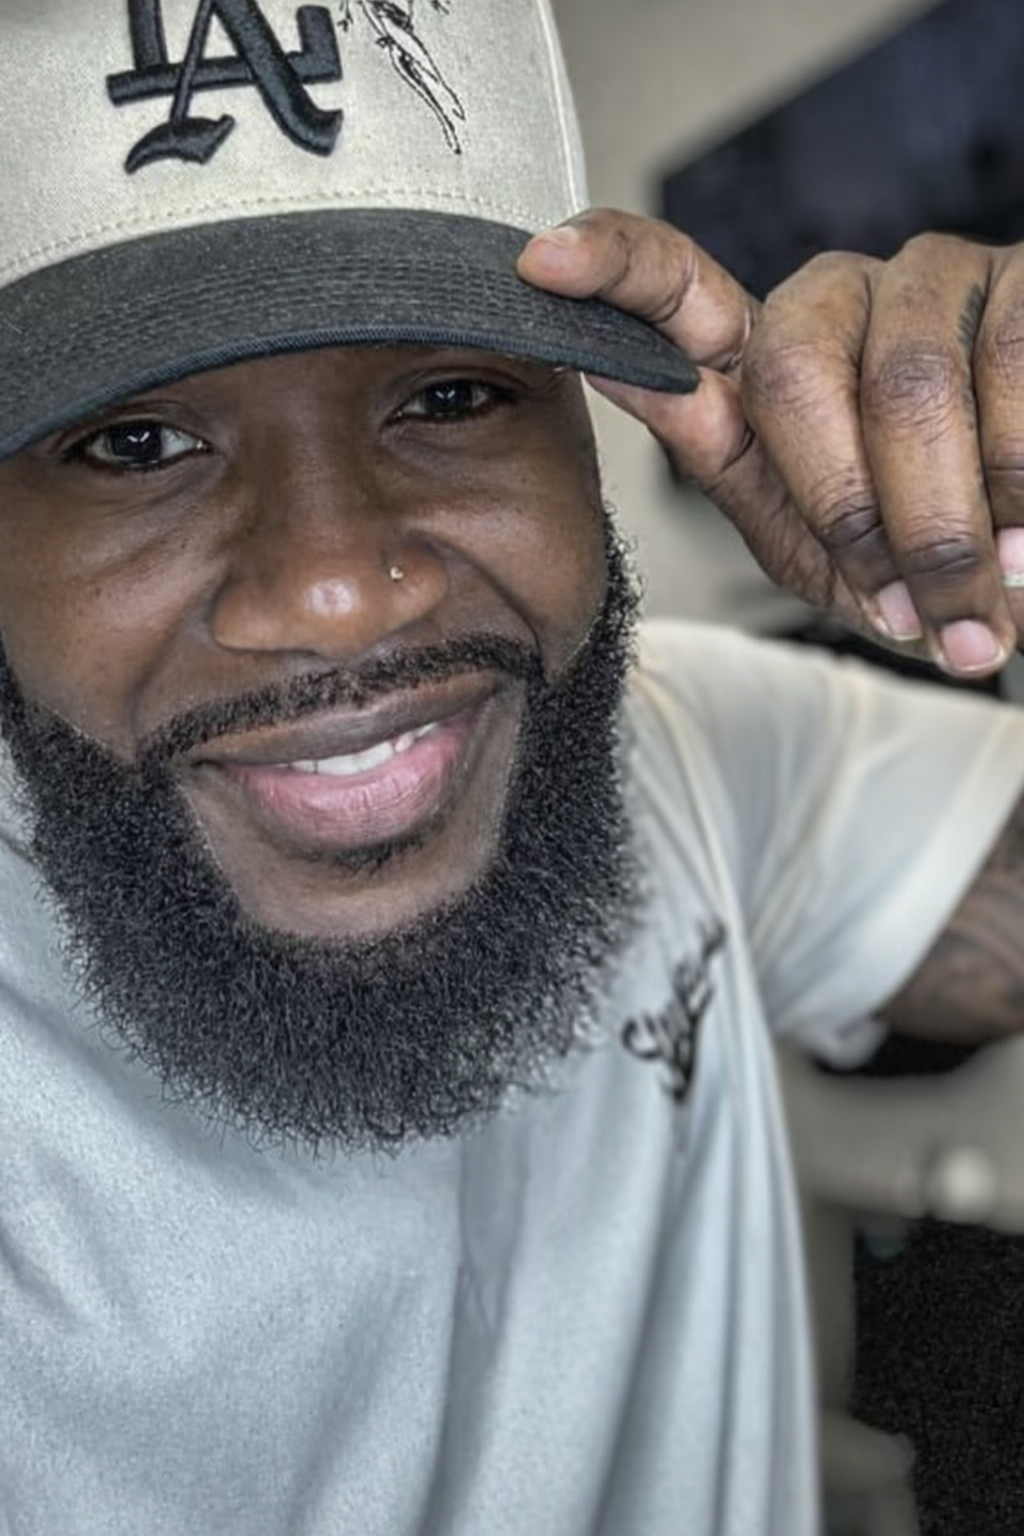
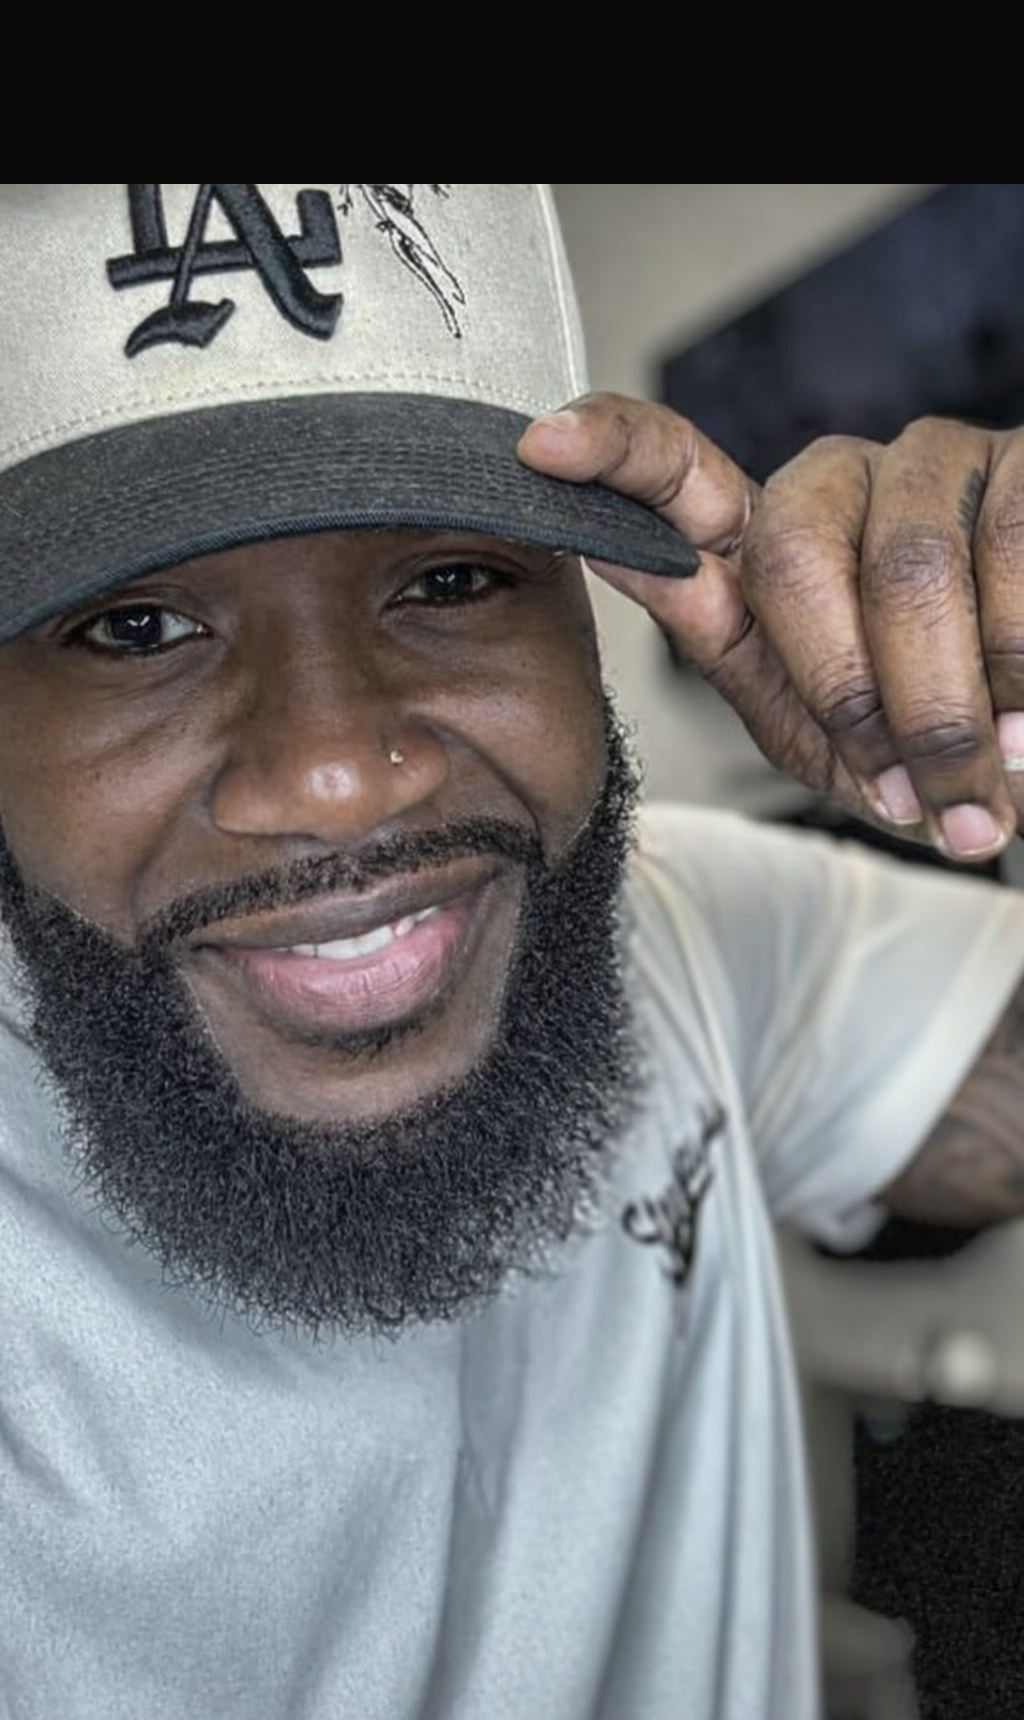
Pad portrait at top so the cap clears the container styling
The portrait source had the LA cap touching the very top edge of the
file — no margin. With aspect-[2/3] + object-cover + rounded-2xl
corners + ring border, the rounded corner mask and any fractional
pixel rendering at the top edge clipped a strip of cap. Adding pixels
in CSS can't reveal what was never in the file, so we bake the
breathing room into the image itself: pad ~12% bg-ink at the top via
a one-shot Pillow script. New dimensions 1024x1720.

Container aspect updates to aspect-[1024/1720] to match the padded
file exactly — no second-round crop.

12 Playwright tests still green.

diff --git a/kwest-barber/src/components/sections/About.tsx b/kwest-barber/src/components/sections/About.tsx
@@ -29,7 +29,7 @@ export function About() {
           {/* Duotoned portrait */}
           <div className="relative lg:col-span-2">
             <ClipReveal type="diagonal" delay={0.1}>
-              <div className="duotone-orange relative aspect-[2/3] overflow-hidden rounded-2xl bg-ink ring-1 ring-chrome/40 shadow-2xl shadow-ink/60">
+              <div className="duotone-orange relative aspect-[1024/1720] overflow-hidden rounded-2xl bg-ink ring-1 ring-chrome/40 shadow-2xl shadow-ink/60">
                 <Image
                   src={`${process.env.NEXT_PUBLIC_BASE_PATH || ""}/images/kwest-portrait.jpg`}
                   alt="Kwest The Barber"